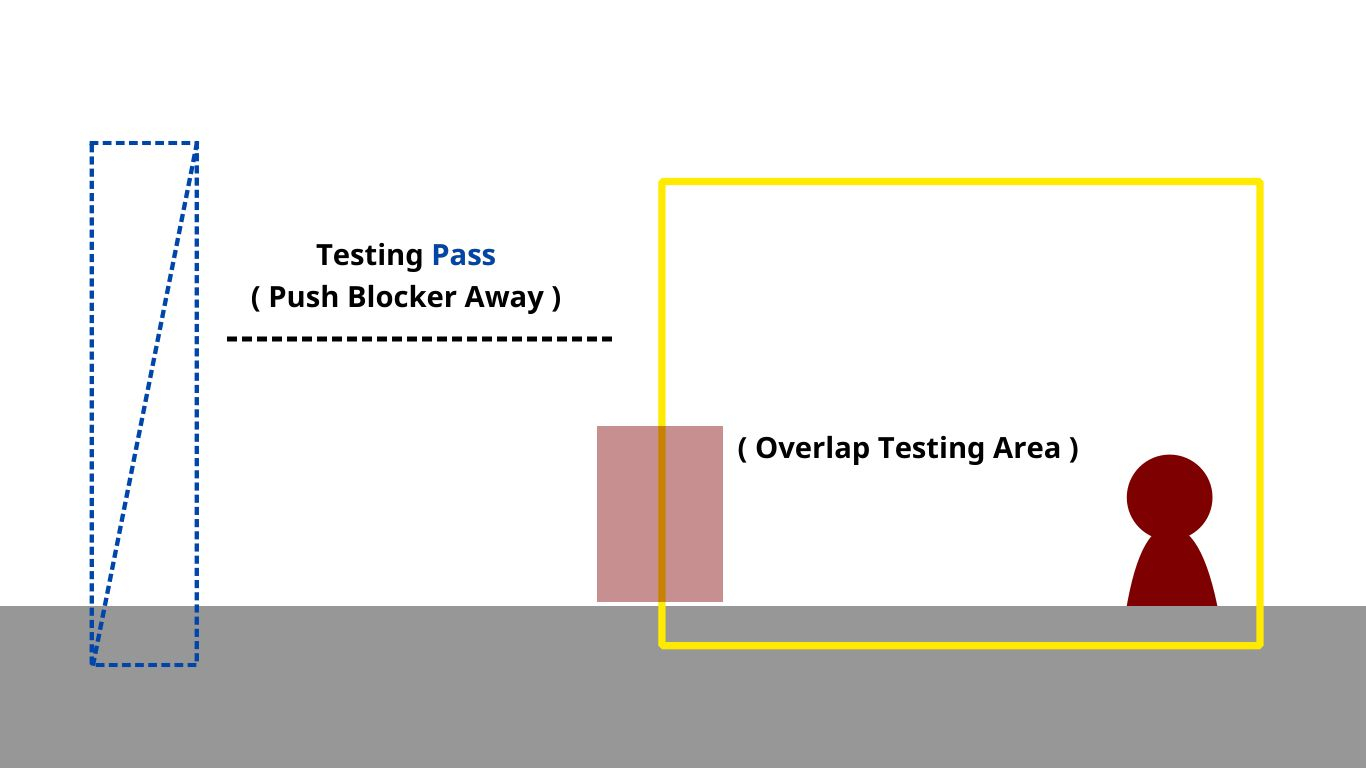
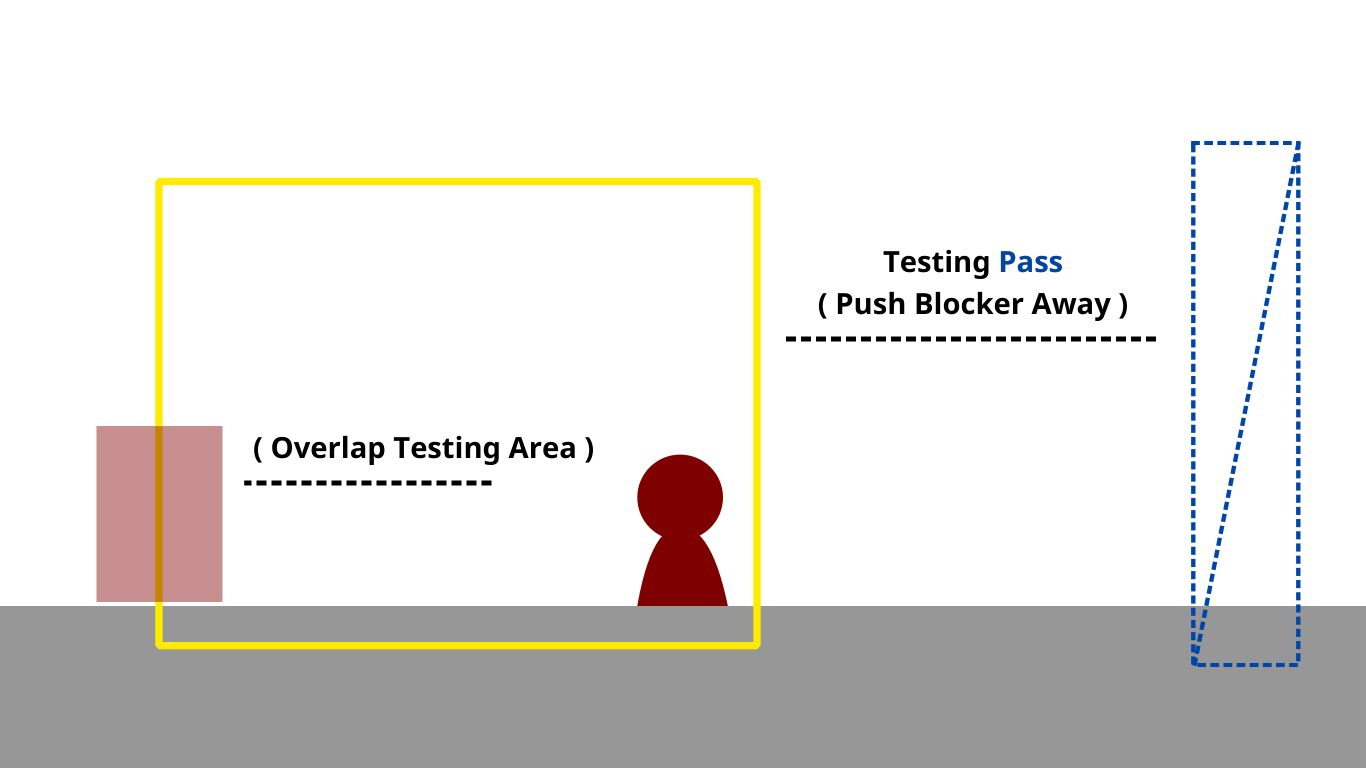
Update DG Draft

Changed region(s): [[0.0615, 0.1562, 0.9531, 0.875], [0.1845, 0.3125, 0.4305, 0.4062], [0.0615, 0.1562, 0.123, 0.2188]]

diff --git a/content/projects/Doppelganger.md b/content/projects/Doppelganger.md
@@ -106,9 +106,9 @@ If you aren't interested in this topic, you can skip to [How we design a game pa
 
 ### Game System
 #### Player Controller
-![player controller](/dg-player-controller.png)
-
 This is the first thing I finished implementing.
+
+![player controller](/dg-player-controller.png)
 
 Without knowing what the game is gonna look like at first, I took an
 easiest way possible to approach this by making it based on the physics engine.
@@ -208,9 +208,9 @@ One way collision is using a built in Unity solution.
 
 __Push & Pull box__
 
-![push and pull box](/dg-box-pull-push.png)
-
 Push and pull box have two states.
+
+![push and pull box](/dg-box-pull-push.png)
 
 __Before grab__
 
@@ -294,9 +294,9 @@ game cinematic, I'll just code it specifically for that scene.
 And it works perfectly, I don't have to spend too much time on a game cinematic and have an extra time to do something else.
 
 #### World Wrapping Mechanic (Focus)(don't forget about the sprite mask, box effect by focus)
-![world wrapping mechanic](/dg-focus-wrapping.png)
-
 This one is the most challenge things to implement in this project, took me sometime to figure out.
+
+![world wrapping mechanic](/dg-focus-wrapping.png)
 
 The actual world wrapping logic is not really that hard, but the hard thing is to come up with a general case for the ability itself.
 
@@ -390,7 +390,7 @@ This mean player cannot wrap themself to the other side when their height is not
 The same thing also apply when player wrapping vertically.
 
 If player come from the lower side, it's gonna wrap player to the upper
-side while keep the x axis value.
+side while keeping the x axis value.
 
 With this nerf, the gating problem is easier to solve. Allow us to make some interesting obstacle.
 
@@ -470,7 +470,7 @@ But, If the overlap testing fail, I'll move the blocker as close as the focus fr
 
 ![overlap testing fail](/dg-blocker-04.jpg)
 
-Not all blockers will be move, It'll pick only the blocker at the same side of the wrapping destination.
+Not all blockers will be move, It'll pick only the blocker at the opposite side of the wrapping destination.
 
 But there is other interesting situation here. \
 What if there is enough space on the wrapping destination?
@@ -486,13 +486,12 @@ In this case, the area of overlap testing looks like this.
 ![overlap testing kiss-explain](/dg-blocking-kiss-explain.png)
 
 As you can see, player wrapping horizontally.
-
 So, It's testing area will only care about x axis and keep the y axis.
 
 The result of overlap testing will fail, because it's overlap with a ground collider at the right side.
 
-But, If player height change. \
-Now, the overlap testing area look like this.
+But, What If player position in y axis change? \
+Now, the overlap testing area looks like this.
 
 ![overlap testing kiss explain with height change](/dg-blocking-kiss-allow-explain.png)
 
@@ -517,10 +516,10 @@ Accidentally, making a convenient ground for player.
 
 __Move Mode__
 
-![focus move mode](/dg-focus-movemode.png)
-
 (check frame position, if it possible to place in that position (clamp to not geater than the whole viewport))
 (don't allow player to activated this ability when jump)
+
+![focus move mode](/dg-focus-movemode.png)
 
 __Edit Mode__
 (image about edit mode here)
